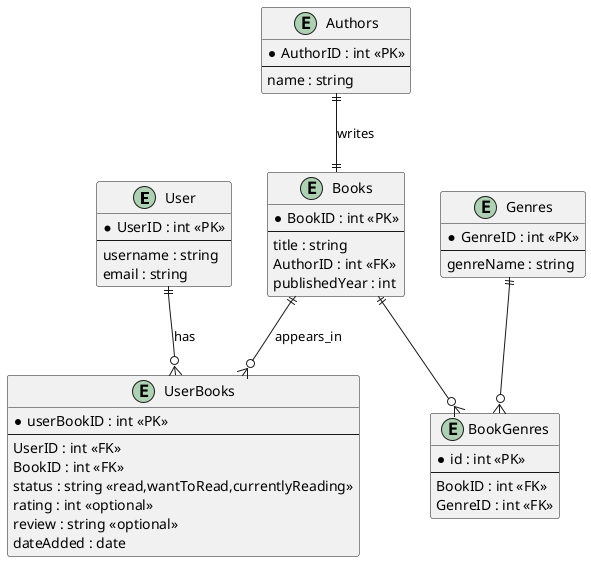
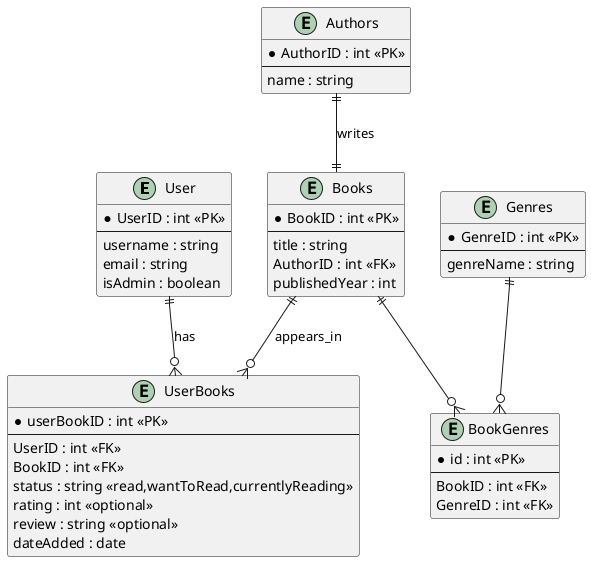
WIP: AdminHandler class, typos, exiting

Changed region(s): [[0.1523, 0.3025, 0.3959, 0.5445], [0.2741, 0.6352, 0.3046, 0.6655]]

diff --git a/app/menu.py b/app/menu.py
@@ -3,12 +3,14 @@ from rich.console import Console
 from rich.table import Table
 from rich.style import Style
 from app.sqlHandler import SQLHandler
+from app.AdminHandler import AdminHandler
 
 
 class Menu:
     def __init__(self):
         self.console = Console()
         self.sqlHandler = SQLHandler(self)
+        self.AdminHandler = AdminHandler(self)
 
     def ShowMainMenu(self):
         table = Table(title="BookTracker")
@@ -19,6 +21,8 @@ class Menu:
         table.add_row("3", "Rate a book")
         table.add_row("4", "View your reading list")
         table.add_row("5", "View average rating")
+        table.add_row("6", "View Admin options")
+        table.add_row("7", "Exit")
 
         self.console.print(table)
 
@@ -38,8 +42,38 @@ class Menu:
                 self.sqlHandler.ViewUserList()
             elif userInput == "5":
                 print("[PlaceHolder] View average rating")
+            elif userInput == "6":
+                print("[PlaceHolder] View Admin options")
+            elif userInput == "7":
+                print("Exiting")
+                return
             else:
                 print("Error in main menu input try again")
+
+    def ShowAdminMenu(self):
+        table = Table(title="Admin options")
+        table.add_column("Option", style="Cyan")
+        table.add_column("Action", style="sky_blue3")
+        table.add_row("1", "Inport Dataset")
+        table.add_row("2", "View all users")
+        table.add_row("3", "Exit")
+
+        self.console.print(table)
+
+    def _UseAdminMenu(self):
+
+        while True:
+            self.ShowAdminMenu()
+            userInput = self.console.input()  # get the input
+            if userInput == "1":
+                print("[PlaceHolder] for inport of dataset")
+            elif userInput == "2":
+                print("[PlaceHolder] for listing all users")
+            elif userInput == "3":
+                print("Returning to main menu")
+                self.ShowMainMenu()
+            else:
+                print("Error in admin menu input try again")
 
 
 if __name__ == "__main__":

diff --git a/app/sqlHandler.py b/app/sqlHandler.py
@@ -39,6 +39,19 @@ class SQLHandler:
         self.cursor.execute("SELECT * FROM Users WHERE Username = %s", (username,))
         user = self.cursor.fetchone()
 
+        # if this is first user make it an admin
+        self.cursor.execute("SELECT COUNT(*) FROM Users")
+        user_count = self.cursor.fetchone()[0]
+
+        if user_count == 0:
+            # This is the first user so create an admin
+            print("You are the first user so this has to be an admin")
+            self._AdminReg(username, user)
+            return
+
+        self.cursor.execute("SELECT * FROM Users WHERE Username = %s", (username,))
+        user = self.cursor.fetchone()
+
         if user:
             self._UserLogin(username, user)
         else:
@@ -63,6 +76,18 @@ class SQLHandler:
 
         else:
             print("Returning to main menu...")
+
+    def _AdminReg(self, username, user):
+        print("Starting Admin registration procedure")
+
+        email = input("Enter Email:")
+        self.cursor.execute(
+            "INSERT INTO Users (Username,Email,isAdmin) Values (%s,%s, %s)",
+            (username, email, True),
+        )
+
+        self.conn.commit()
+        print(f"Admin user '{username}' registered successfully.")
 
     # ===========================================
     #           2. Add book to list and db

diff --git a/app/AdminHandler.py b/app/AdminHandler.py
@@ -1,0 +1,33 @@
+from sql.db import create_connection
+import questionary
+from rich import print
+
+
+class AdminHandler:
+
+    def __init__(self, menu: "Menu"):
+        self.conn = create_connection()
+        self.cursor = self.conn.cursor()
+
+        # Attributes
+        self._currentUserID = None
+        self.menu = menu
+
+    # ===========================================
+    #            1. Import dataset
+    # ===========================================
+
+    # ===========================================
+    #            2. List all users
+    # ===========================================
+
+    def AdminListAllUsers(self):
+        self.cursor.execute("SELECT * FROM Users")
+
+        allUsers = self.cursor.fetchall()
+
+        for UserID, Username, Email, isAdmin in allUsers:
+            if isAdmin:
+                print(f"ID: {UserID} Username: {Username} Email: {Email} [ADMIN]")
+            else:
+                print(f"ID: {UserID} Username: {Username} Email: {Email} [USER]")
